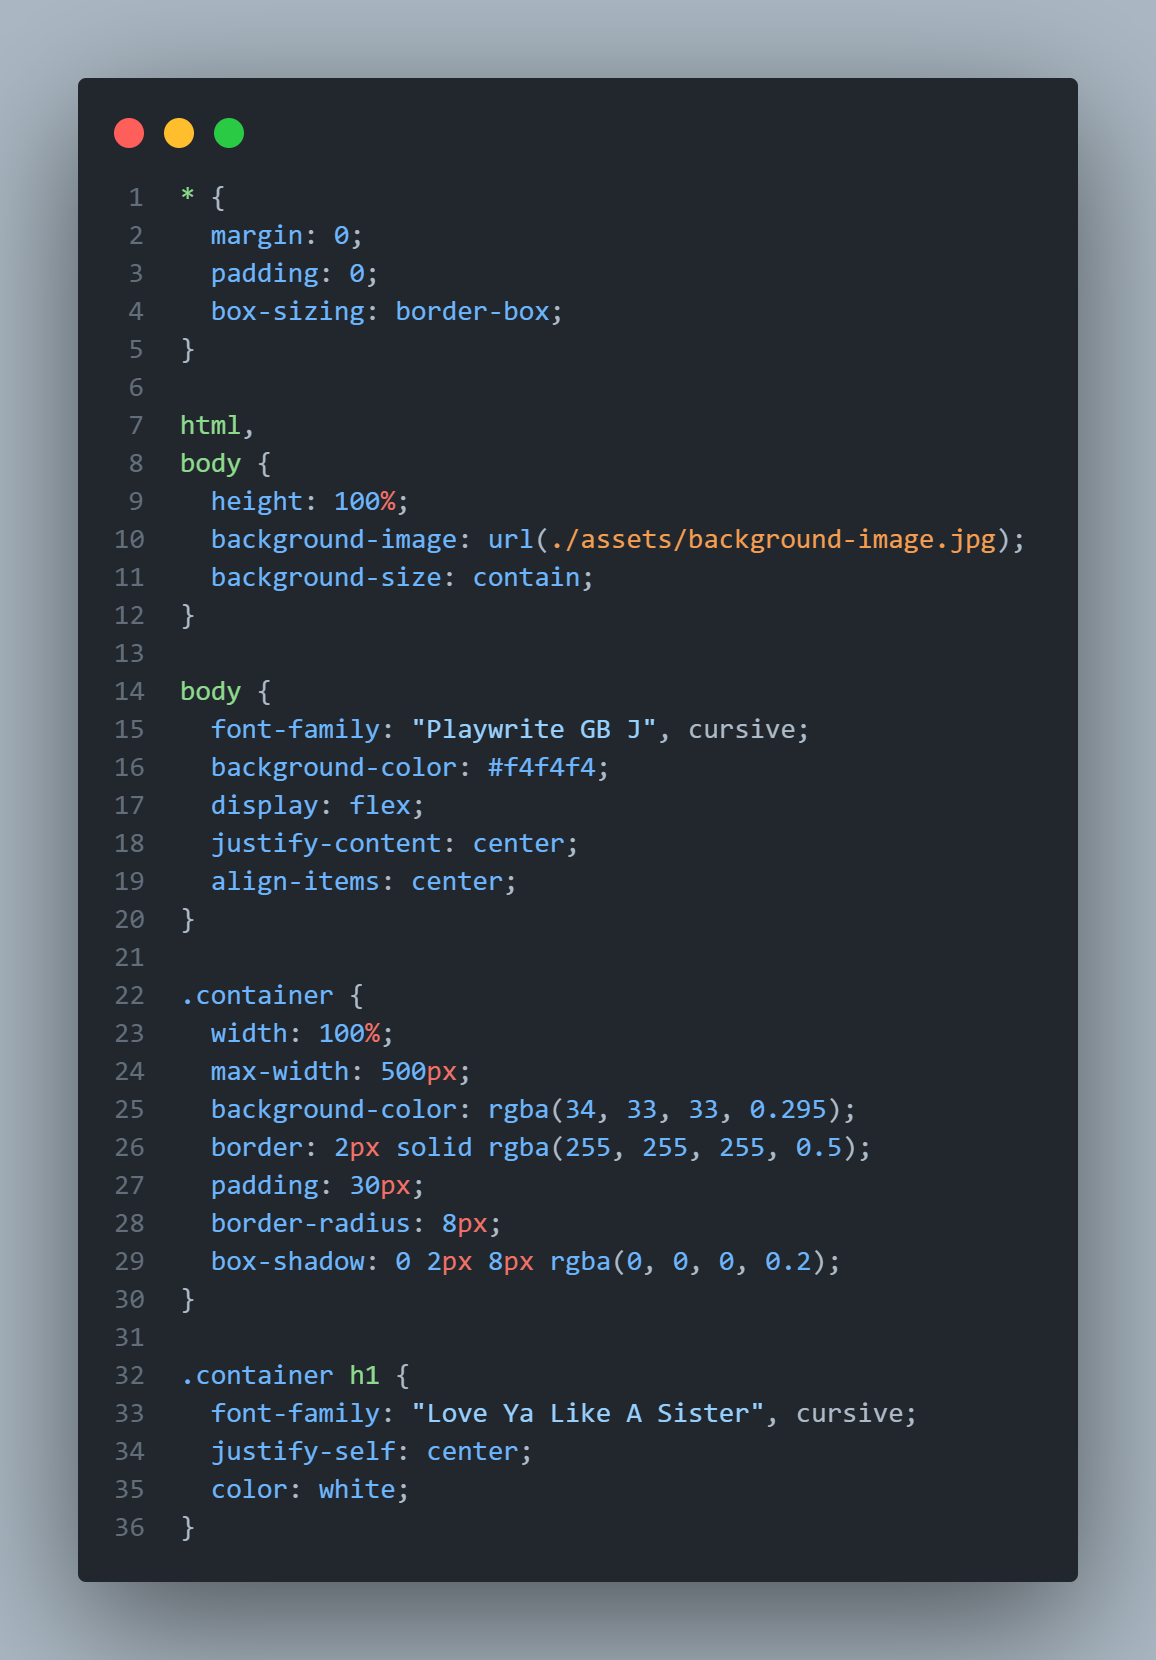
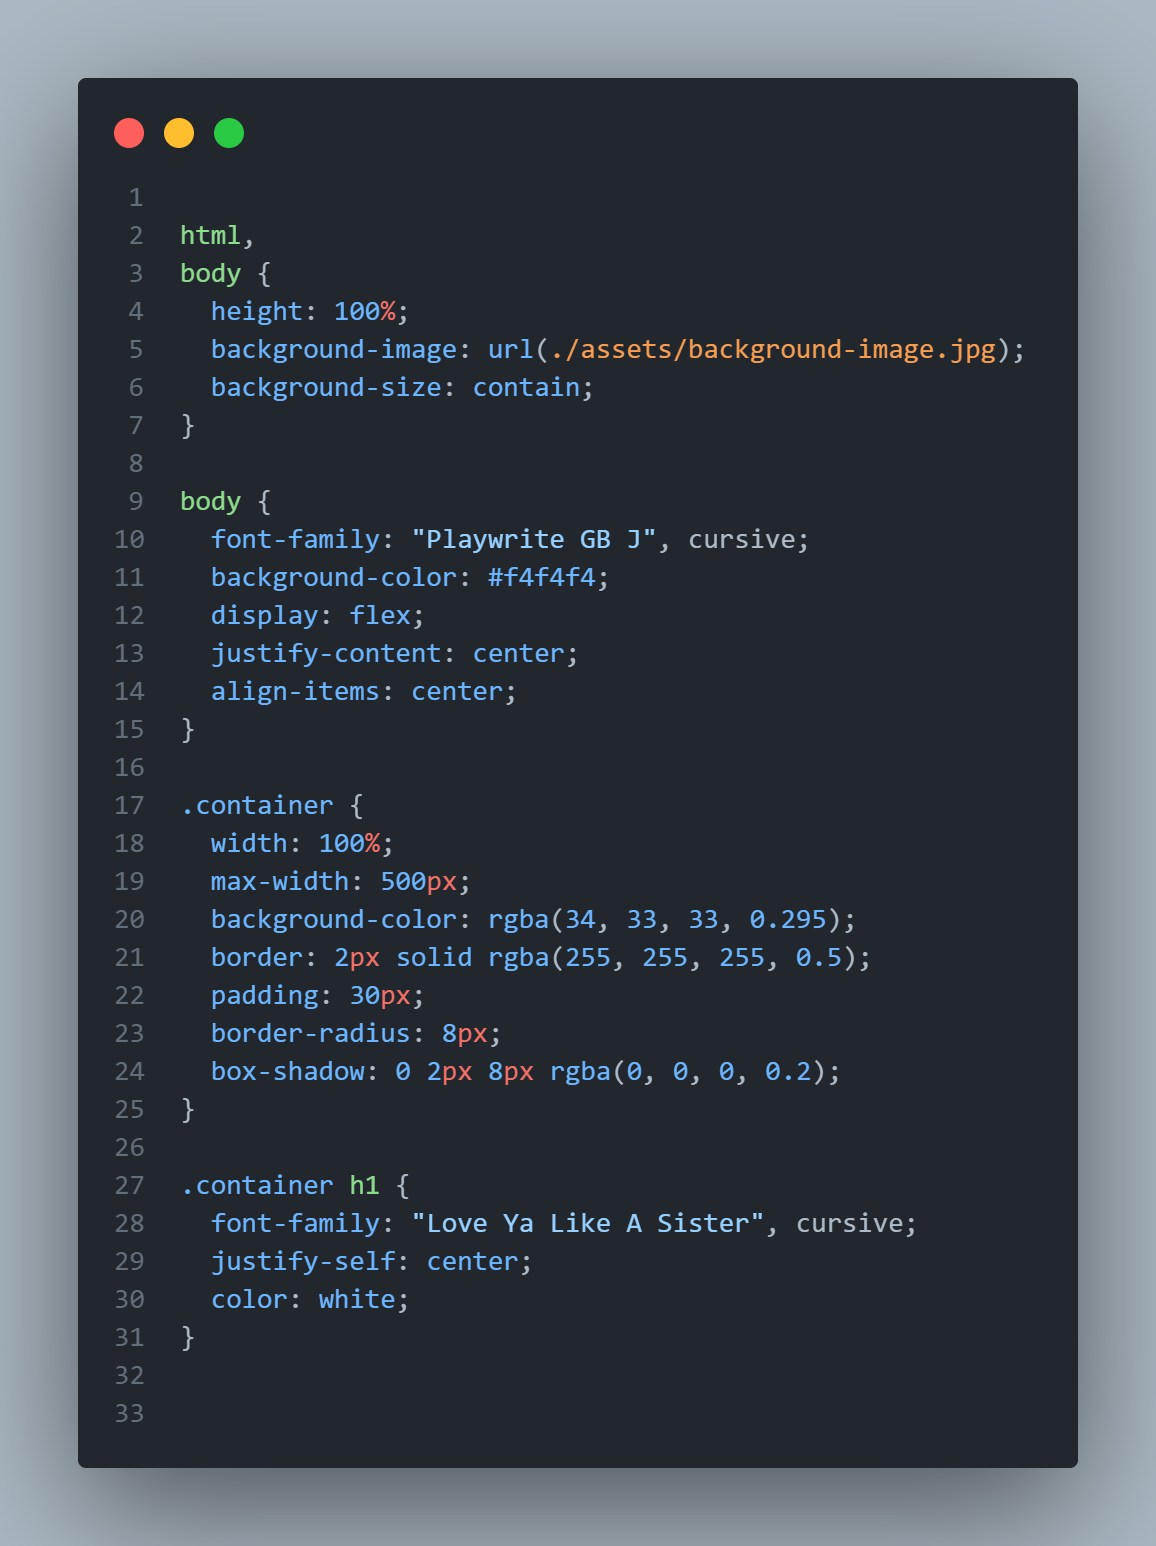
README.md

diff --git a/ToDo List/README.md b/ToDo List/README.md
@@ -38,8 +38,8 @@ ToDo-List
 
 ### CODE SNIPPET
 
-<p align="center">
-  <img src="assets/code-snippet1.png" width="350" style="margin-right:10px;">
+<p align="center" style="display:flex; justify-content:center; gap:20px;">
+  <img src="assets/code-snippet1.png" width="350">
   <img src="assets/code-snippet2.png" width="350">
 </p>
 